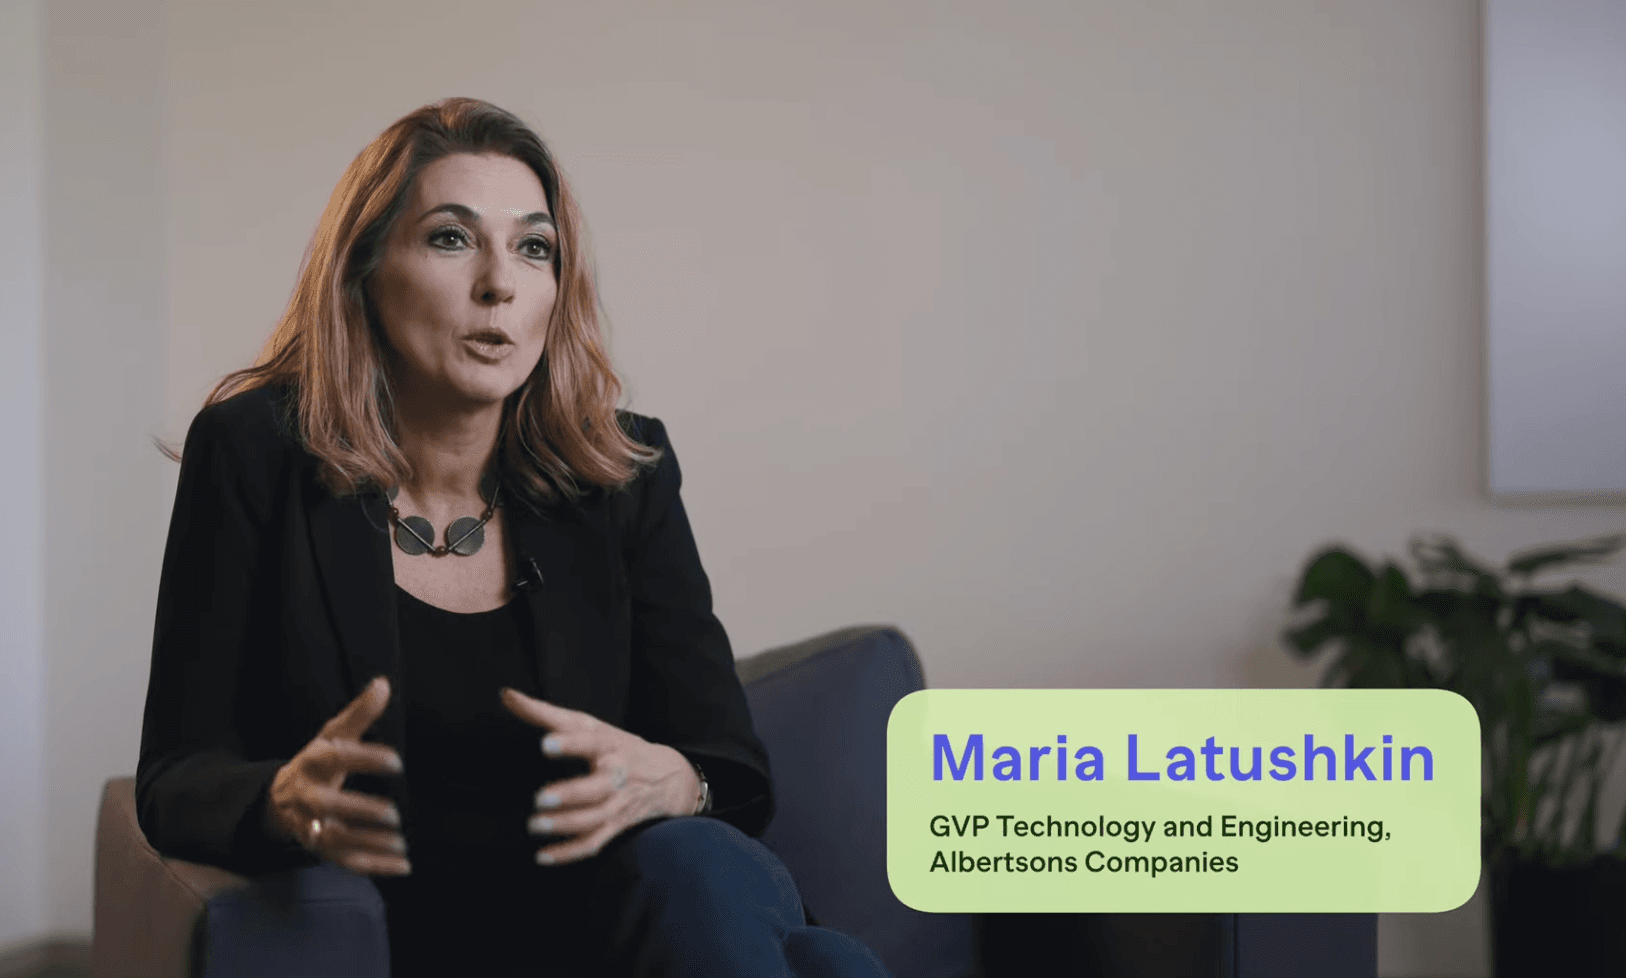
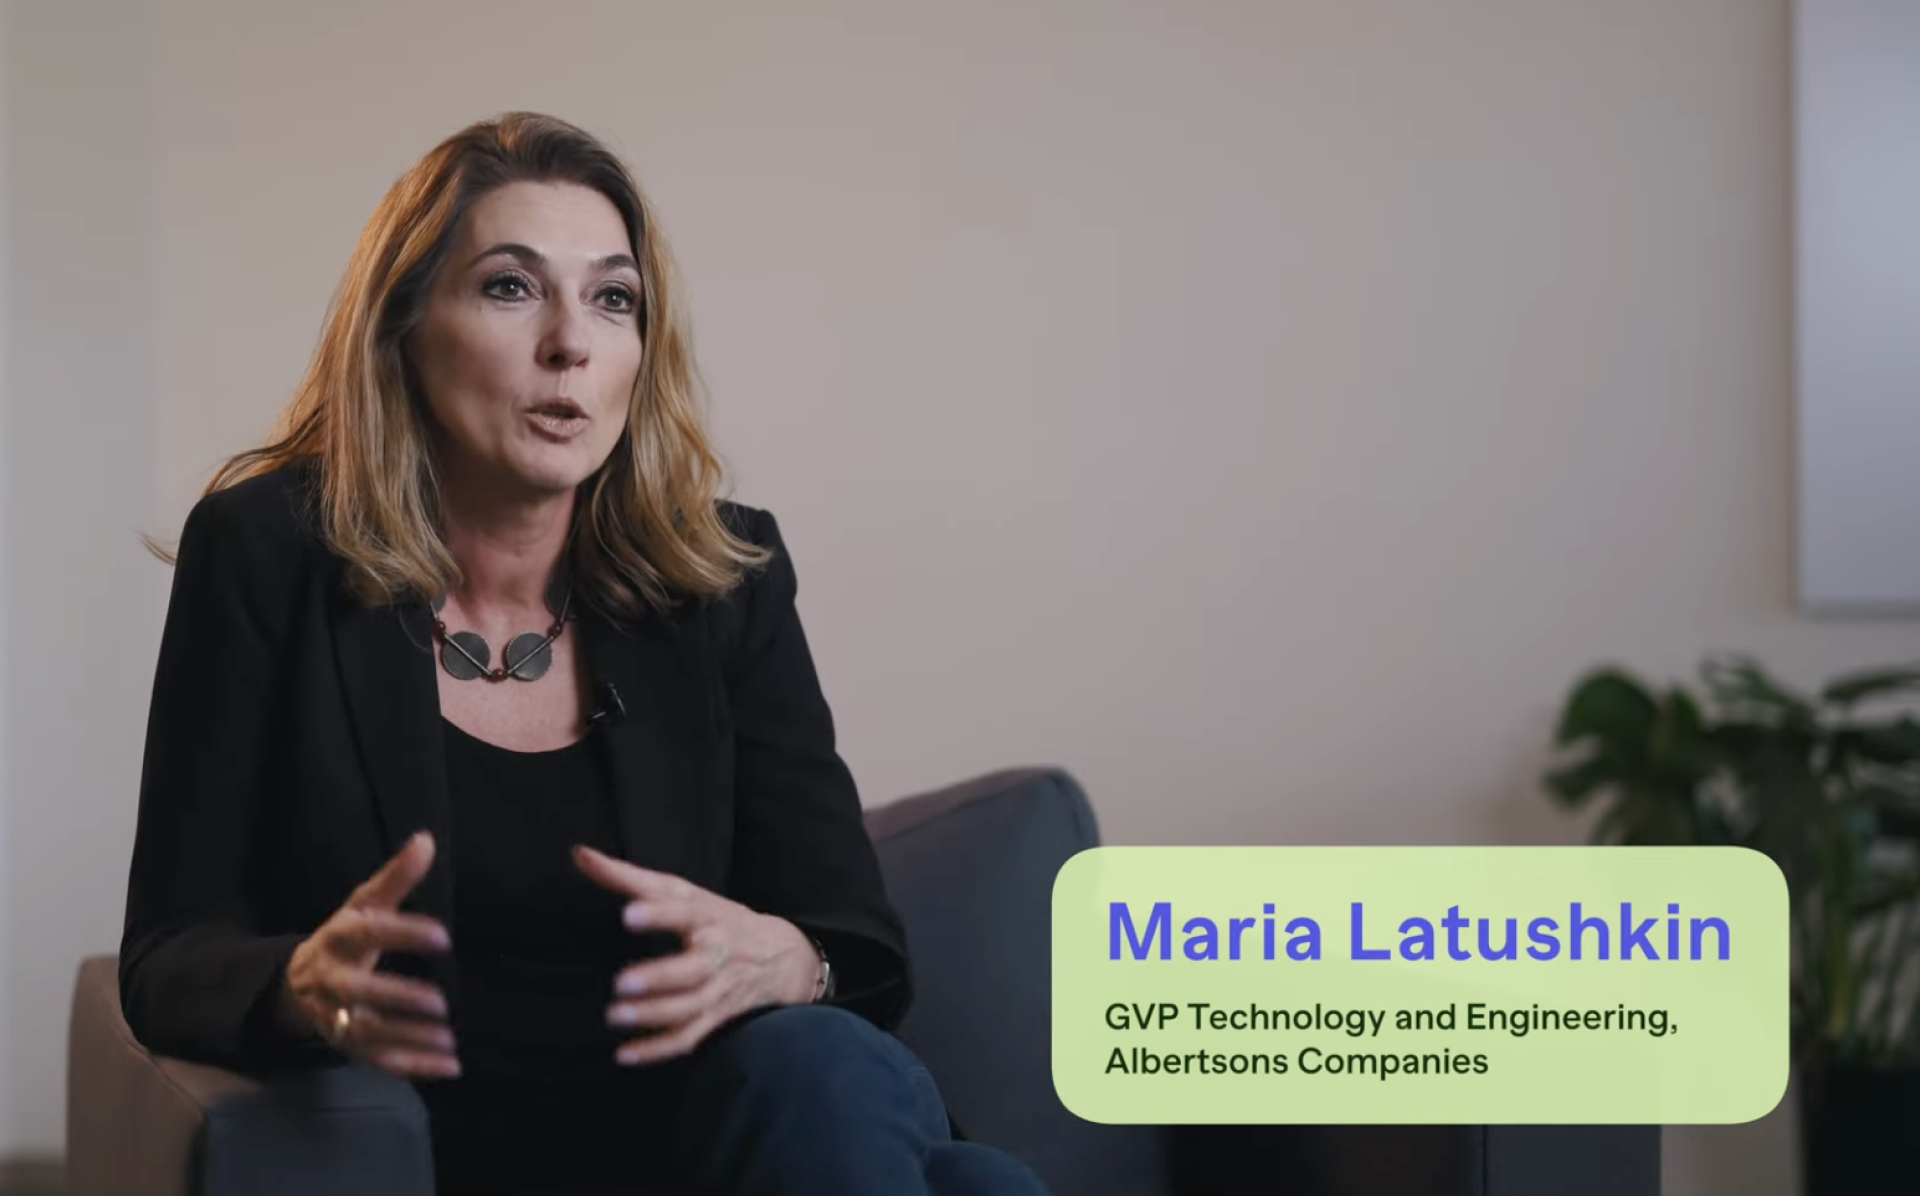
Rework Afresh brand refresh project page
- New Intro copy; Scope replaced by a Pre-refresh section with the
  old-site screenshot and a caption
- Reordered: Brand Imagery and Photography now precede Exhibition Booth
- New sections: Photography (4 shots), Emails, Graphics and
  Advertisements; Patterns renamed Swag with the tote added
- Microsites folded into an Albertson's Case Study Video section with
  the YouTube embed, stills and site pages
- Company Party and Cards combined into Fliers and Cards
- Photos converted PNG to JPEG (13 MB to 1.4 MB)

Adds a reusable .img-caption style and bumps project.css to v22.

diff --git a/projects/afresh-brand-refresh/index.html b/projects/afresh-brand-refresh/index.html
@@ -7,7 +7,7 @@
   <title>Afresh Brand Refresh — ML Howell</title>
   <link href="https://fonts.googleapis.com/css2?family=Inter:opsz,wght@14..32,100..900&family=Inter+Display:wght@100..900&display=swap" rel="stylesheet">
   <link rel="stylesheet" href="/styles/global.css?v=11">
-  <link rel="stylesheet" href="/projects/project.css?v=19">
+  <link rel="stylesheet" href="/projects/project.css?v=22">
   <script defer src="/_vercel/insights/script.js"></script>
 </head>
 <body>
@@ -61,32 +61,20 @@
 
     <div class="section">
       <h3 class="section-label">Intro</h3>
-      <p>In 2022, I worked on a brand refresh for Afresh, a fresh technology company serving grocery retailers. The objective was to position Afresh as a premium alternative within its competitive landscape.</p>
-      <p>I collaborated with design studio Upper Quad, offering directional feedback throughout development. Once the creative direction solidified, the work expanded across multiple mediums and departments.</p>
-      <h3 class="section-label" style="margin-top:24px;">Scope</h3>
-      <p>Print advertising, a 20' × 20' exhibition booth, brand imagery, whitepapers, patterns and promotional items, microsites, corporate events, greeting cards, video graphics, and comprehensive brand guidelines.</p>
-    </div>
-
-    <div class="img-full">
-      <img src="Images/Image%201.png" alt="Afresh brand refresh image 1">
-    </div>
-
-    <div class="img-full">
-      <img src="Images/Image%202.png" alt="Afresh brand refresh image 2">
+      <p>In 2021 I joined Afresh as a brand designer responsible for creating assets for the company, such as their first Impact Report, print materials for sales, advertisements, and working on any exhibition booth materials for conferences. For about a year I utilized the brand assets we had available, kept the brand consistent, and produced assets that would help my team.</p>
+      <p>During that time my manager, Sarah Papp, had been starting to work with a brand agency called Upperquad to refresh the brand as we prepared for a Series B. I was brought in at the time to help give directional feedback as we landed on a new logo, website, and new colors.</p>
     </div>
 
     <div class="section">
-      <h3 class="section-label">Exhibition Booth</h3>
-    </div>
-
-    <div class="img-row col-2">
-      <div class="img-row-item"><img src="Images/Image%203_Exhibition%20Booth.png" alt="Exhibition booth 1"></div>
-      <div class="img-row-item"><img src="Images/Image%204_Exhibition%20Booth.jpeg" alt="Exhibition booth 2"></div>
+      <h3 class="section-label">Pre-refresh</h3>
+      <p>Before we refreshed Afresh's brand identity, the logo and brand didn't feel premium. It felt like an average series A tech company and didn't stand out. The main goal of implementing a new brand identity was to position Afresh as a premium option amongst competition.</p>
     </div>
 
     <div class="img-full">
-      <img src="Images/Image%205_Exhibition%20Booth.png" alt="Exhibition booth 3">
+      <img src="Images/Pre-refresh.jpg" alt="Afresh website before the brand refresh">
     </div>
+
+    <p class="img-caption">Afresh&rsquo;s old website</p>
 
     <div class="section">
       <h3 class="section-label">Brand Imagery</h3>
@@ -106,6 +94,45 @@
     </div>
 
     <div class="section">
+      <h3 class="section-label">Photography</h3>
+    </div>
+
+    <div class="img-row col-2" style="align-items:start;">
+      <div class="img-row-item" style="aspect-ratio:unset; height:auto;"><img src="Images/Cheese.jpg" alt="Cheese counter" style="object-fit:unset; height:auto;"></div>
+      <div class="img-row-item" style="aspect-ratio:unset; height:auto;"><img src="Images/Oranges.jpg" alt="Oranges" style="object-fit:unset; height:auto;"></div>
+    </div>
+
+    <div class="img-row col-2" style="align-items:start;">
+      <div class="img-row-item" style="aspect-ratio:unset; height:auto;"><img src="Images/Meat.jpg" alt="Butcher preparing meat" style="object-fit:unset; height:auto;"></div>
+      <div class="img-row-item" style="aspect-ratio:unset; height:auto;"><img src="Images/Person.jpg" alt="Shopper in the produce aisle" style="object-fit:unset; height:auto;"></div>
+    </div>
+
+    <div class="section">
+      <h3 class="section-label">Exhibition Booth</h3>
+    </div>
+
+    <div class="img-row col-2">
+      <div class="img-row-item"><img src="Images/Image%203_Exhibition%20Booth.png" alt="Exhibition booth 1"></div>
+      <div class="img-row-item"><img src="Images/Image%204_Exhibition%20Booth.jpeg" alt="Exhibition booth 2"></div>
+    </div>
+
+    <div class="img-full">
+      <img src="Images/Image%205_Exhibition%20Booth.png" alt="Exhibition booth 3">
+    </div>
+
+    <div class="section">
+      <h3 class="section-label">Graphics and Advertisements</h3>
+    </div>
+
+    <div class="img-full">
+      <img src="Images/Image%201.png" alt="Afresh graphic 1">
+    </div>
+
+    <div class="img-full">
+      <img src="Images/Image%202.png" alt="Afresh advertisement">
+    </div>
+
+    <div class="section">
       <h3 class="section-label">Whitepaper</h3>
     </div>
 
@@ -114,7 +141,7 @@
     </div>
 
     <div class="section">
-      <h3 class="section-label">Patterns</h3>
+      <h3 class="section-label">Swag</h3>
     </div>
 
     <div class="img-row col-2">
@@ -123,43 +150,50 @@
     </div>
 
     <div class="img-full">
-      <img src="Images/Pattern_15.png" alt="Pattern 15">
+      <img src="Images/Bag.png" alt="Afresh tote bag">
     </div>
 
     <div class="section">
-      <h3 class="section-label">Microsites</h3>
+      <h3 class="section-label">Albertson’s Case Study Video</h3>
+    </div>
+
+    <div style="position:relative; width:100%; aspect-ratio:16/9; margin-bottom:var(--gap-section);">
+      <iframe src="https://www.youtube.com/embed/1ykhJb4BoAs" title="Afresh + Albertsons case study video" frameborder="0" allow="accelerometer; autoplay; clipboard-write; encrypted-media; gyroscope; picture-in-picture" allowfullscreen style="position:absolute; inset:0; width:100%; height:100%;"></iframe>
     </div>
 
     <div class="img-row col-2" style="align-items:start;">
-      <div class="img-row-item" style="aspect-ratio:unset; height:auto;"><img src="Images/Microsites_16.png" alt="Microsite 16" style="object-fit:unset; height:auto;"></div>
-      <div class="img-row-item" style="aspect-ratio:unset; height:auto;"><img src="Images/Microsites_17.png" alt="Microsite 17" style="object-fit:unset; height:auto;"></div>
-    </div>
-
-    <div class="section">
-      <h3 class="section-label">Company Party</h3>
+      <div class="img-row-item" style="aspect-ratio:unset; height:auto;"><img src="Images/Video%20still%202.png" alt="Afresh + Albertsons logo lockup" style="object-fit:unset; height:auto;"></div>
+      <div class="img-row-item" style="aspect-ratio:unset; height:auto;"><img src="Images/Video_21.png" alt="Maria Latushkin, GVP Technology and Engineering, Albertsons Companies" style="object-fit:unset; height:auto;"></div>
     </div>
 
     <div class="img-full">
-      <img src="Images/Company%20Party_18.png" alt="Company party">
-    </div>
-
-    <div class="section">
-      <h3 class="section-label">Cards</h3>
-    </div>
-
-    <div class="img-row col-2" style="align-items:start;">
-      <div class="img-row-item" style="aspect-ratio:unset; height:auto;"><img src="Images/Cards_19.png" alt="Cards 19" style="object-fit:unset; height:auto;"></div>
-      <div class="img-row-item" style="aspect-ratio:unset; height:auto;"><img src="Images/Cards_20.png" alt="Cards 20" style="object-fit:unset; height:auto;"></div>
-    </div>
-
-
-    <div class="section">
-      <h3 class="section-label">Video</h3>
+      <img src="Images/Website%201.png" alt="Afresh website — Albertsons customer story">
     </div>
 
     <div class="img-full">
-      <img src="Images/Video_21.png" alt="Video graphics">
+      <img src="Images/Website%202.png" alt="Afresh website — what’s wrong with existing fresh solutions">
     </div>
+
+    <div class="section">
+      <h3 class="section-label">Emails</h3>
+    </div>
+
+    <div class="img-full">
+      <img src="Images/Emails.png" alt="Afresh Groceryshop email">
+    </div>
+
+    <div class="section">
+      <h3 class="section-label">Fliers and Cards</h3>
+    </div>
+
+    <div class="img-full">
+      <img src="Images/Flier.png" alt="Afresh Fest Summer Picnic flier">
+    </div>
+
+    <div class="img-full">
+      <img src="Images/Cards%20layout.png" alt="Afresh cards">
+    </div>
+
 
     <div class="section">
       <h3 class="section-label">Brand Guidelines</h3>

diff --git a/projects/project.css b/projects/project.css
@@ -97,6 +97,18 @@ body { overflow-x: hidden; }
 
 .img-full img { width: 100%; display: block; }
 
+/* ── Image caption ─────────────────────────────────────────────
+   Sits directly under the image it describes, so it pulls up against
+   the image's section gap rather than adding a second one. */
+.img-caption {
+  margin-top: calc(var(--gap-section) * -1 + 10px);
+  margin-bottom: var(--gap-section);
+  font-size: 14px;
+  line-height: 18px;
+  color: rgba(0,0,0,0.55);
+  text-align: center;
+}
+
 .img-row {
   display: grid;
   gap: 24px;

diff --git a/projects/streetcleaningparking/index.html b/projects/streetcleaningparking/index.html
@@ -7,7 +7,7 @@
   <title>Street Cleaning Parking — ML Howell</title>
   <link href="https://fonts.googleapis.com/css2?family=Inter:opsz,wght@14..32,100..900&family=Inter+Display:wght@100..900&display=swap" rel="stylesheet">
   <link rel="stylesheet" href="/styles/global.css?v=11">
-  <link rel="stylesheet" href="/projects/project.css?v=19">
+  <link rel="stylesheet" href="/projects/project.css?v=22">
   <script defer src="/_vercel/insights/script.js"></script>
 </head>
 <body>

diff --git a/projects/theskimm-character-redesign/index.html b/projects/theskimm-character-redesign/index.html
@@ -7,7 +7,7 @@
   <title>theSkimm Illustrations — ML Howell</title>
   <link href="https://fonts.googleapis.com/css2?family=Inter:opsz,wght@14..32,100..900&family=Inter+Display:wght@100..900&display=swap" rel="stylesheet">
   <link rel="stylesheet" href="/styles/global.css?v=11">
-  <link rel="stylesheet" href="/projects/project.css?v=19">
+  <link rel="stylesheet" href="/projects/project.css?v=22">
   <script defer src="/_vercel/insights/script.js"></script>
 </head>
 <body>

diff --git a/projects/guac/index.html b/projects/guac/index.html
@@ -7,7 +7,7 @@
   <title>Guac Exhibition Booth — ML Howell</title>
   <link href="https://fonts.googleapis.com/css2?family=Inter:opsz,wght@14..32,100..900&family=Inter+Display:wght@100..900&display=swap" rel="stylesheet">
   <link rel="stylesheet" href="/styles/global.css?v=11">
-  <link rel="stylesheet" href="/projects/project.css?v=19">
+  <link rel="stylesheet" href="/projects/project.css?v=22">
   <script defer src="/_vercel/insights/script.js"></script>
 </head>
 <body>

diff --git a/projects/afreshdesignsystem/index.html b/projects/afreshdesignsystem/index.html
@@ -7,7 +7,7 @@
   <title>Afresh Design System — ML Howell</title>
   <link href="https://fonts.googleapis.com/css2?family=Inter:opsz,wght@14..32,100..900&family=Inter+Display:wght@100..900&display=swap" rel="stylesheet">
   <link rel="stylesheet" href="/styles/global.css?v=11">
-  <link rel="stylesheet" href="/projects/project.css?v=19">
+  <link rel="stylesheet" href="/projects/project.css?v=22">
   <script defer src="/_vercel/insights/script.js"></script>
 </head>
 <body>

diff --git a/projects/guac-products-2025/index.html b/projects/guac-products-2025/index.html
@@ -7,7 +7,7 @@
   <title>Guac Products — ML Howell</title>
   <link href="https://fonts.googleapis.com/css2?family=Inter:opsz,wght@14..32,100..900&family=Inter+Display:wght@100..900&display=swap" rel="stylesheet">
   <link rel="stylesheet" href="/styles/global.css?v=11">
-  <link rel="stylesheet" href="/projects/project.css?v=19">
+  <link rel="stylesheet" href="/projects/project.css?v=22">
   <script defer src="/_vercel/insights/script.js"></script>
 </head>
 <body>

diff --git a/projects/postly/index.html b/projects/postly/index.html
@@ -7,7 +7,7 @@
   <title>Postly — ML Howell</title>
   <link href="https://fonts.googleapis.com/css2?family=Inter:opsz,wght@14..32,100..900&family=Inter+Display:wght@100..900&display=swap" rel="stylesheet">
   <link rel="stylesheet" href="/styles/global.css?v=11">
-  <link rel="stylesheet" href="/projects/project.css?v=19">
+  <link rel="stylesheet" href="/projects/project.css?v=22">
   <script defer src="/_vercel/insights/script.js"></script>
 </head>
 <body>

diff --git a/projects/storyboarding-tool/index.html b/projects/storyboarding-tool/index.html
@@ -7,7 +7,7 @@
   <title>Storyboarding Tool — ML Howell</title>
   <link href="https://fonts.googleapis.com/css2?family=Inter:opsz,wght@14..32,100..900&family=Inter+Display:wght@100..900&display=swap" rel="stylesheet">
   <link rel="stylesheet" href="/styles/global.css?v=11">
-  <link rel="stylesheet" href="/projects/project.css?v=19">
+  <link rel="stylesheet" href="/projects/project.css?v=22">
   <style>
     .section ol {
       font-size: var(--size-body);
